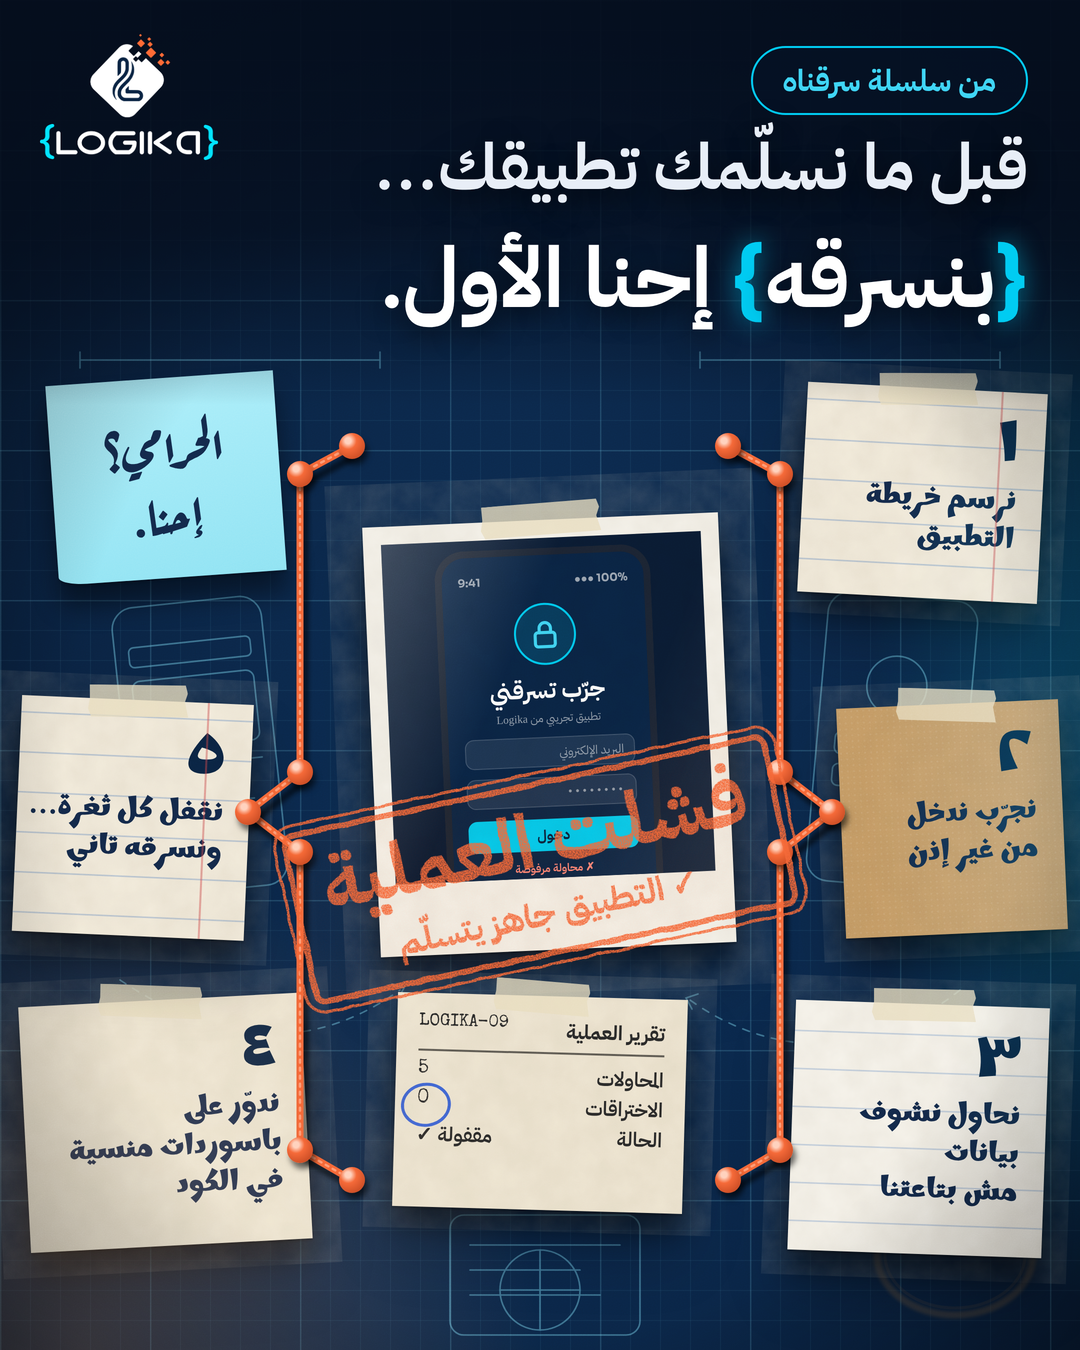
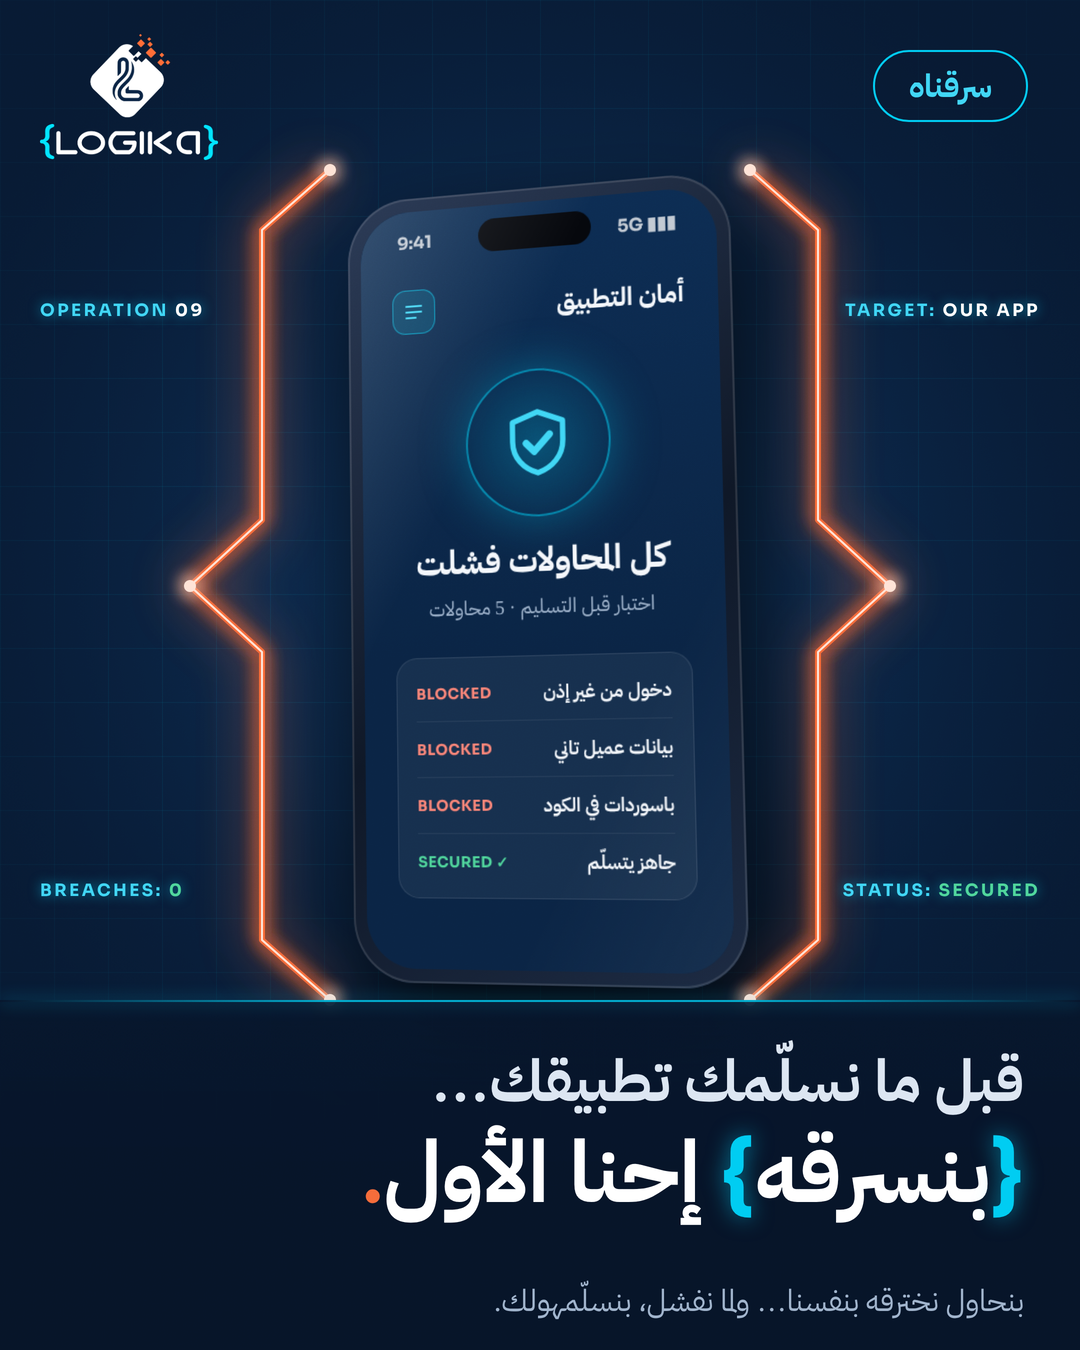
Post 9 v2: laser-brace hero layout following the Logika post system
Claude-Session: https://claude.ai/code/session_01LsSSdfez5pakafpfCzGJhu

diff --git a/content/post-09/heist-v2.html b/content/post-09/heist-v2.html
@@ -1,0 +1,134 @@
+<!doctype html>
+<html lang="ar">
+<head>
+<meta charset="utf-8">
+<title>بوست ٩ · بنسرقه إحنا الأول</title>
+<style>
+@font-face{font-family:Plex;src:url(fonts/ibm-plex-sans-arabic-arabic-400-normal.woff2);font-weight:400}
+@font-face{font-family:Plex;src:url(fonts/ibm-plex-sans-arabic-arabic-600-normal.woff2);font-weight:600}
+@font-face{font-family:Plex;src:url(fonts/ibm-plex-sans-arabic-arabic-700-normal.woff2);font-weight:700}
+@font-face{font-family:Sora;src:url(fonts/sora-latin-700-normal.woff2);font-weight:700}
+:root{--navy:#0A2444;--navy2:#0B335F;--deep:#071A33;--cyan:#00CCF2;--cyan2:#3FD6F5;--orange:#F56A39;--text:#F4F7FB;--muted:#9FB3CC}
+*{margin:0;padding:0;box-sizing:border-box}
+html,body{width:1080px;height:1350px;overflow:hidden;background:var(--deep)}
+body{position:relative;font-family:Plex,sans-serif;color:var(--text)}
+.abs{position:absolute}.full{position:absolute;inset:0}
+
+#bg{background:
+  linear-gradient(rgba(0,204,242,.07) 1px,transparent 1px) 0 0/54px 54px,
+  linear-gradient(90deg,rgba(0,204,242,.07) 1px,transparent 1px) 0 0/54px 54px,
+  radial-gradient(ellipse 60% 50% at 50% 42%,#0F3866 0%,#0A2444 55%,#071A33 100%)}
+#bgmask{background:radial-gradient(ellipse 70% 60% at 50% 42%,transparent 40%,rgba(7,26,51,.85) 100%)}
+
+/* ---------- phone ---------- */
+#phoneWrap{left:340px;top:180px;width:400px;height:800px;transform:perspective(1800px) rotateY(-14deg) rotateX(4deg) rotateZ(-2deg);transform-style:preserve-3d}
+#phone{position:absolute;inset:0;border-radius:64px;background:linear-gradient(145deg,#2B3A55,#0E1726 55%,#1C2A42);padding:14px;
+  box-shadow:0 60px 120px rgba(0,0,0,.6),0 0 0 2px rgba(255,255,255,.12) inset,30px 40px 80px rgba(0,0,0,.35)}
+#screen{position:relative;width:100%;height:100%;border-radius:52px;overflow:hidden;background:linear-gradient(180deg,#0C2C52,#0A2444 60%);direction:rtl;padding:62px 34px 0}
+#notch{position:absolute;left:50%;top:14px;width:118px;height:34px;margin-left:-59px;border-radius:20px;background:#05070C}
+.sb{position:absolute;top:22px;left:40px;right:40px;display:flex;justify-content:space-between;font:700 18px Sora;color:rgba(255,255,255,.75);direction:ltr}
+.app-top{display:flex;align-items:center;justify-content:space-between;margin-top:20px}
+.app-top b{font:700 26px Plex}
+.app-top i{width:46px;height:46px;border-radius:14px;background:rgba(0,204,242,.14);border:1.5px solid rgba(0,204,242,.6);display:flex;align-items:center;justify-content:center;color:var(--cyan2);font-style:normal}
+.shield{margin:44px auto 18px;width:150px;height:150px;border-radius:50%;display:flex;align-items:center;justify-content:center;
+  background:radial-gradient(circle,rgba(0,204,242,.25),rgba(0,204,242,.05) 70%);border:2px solid rgba(0,204,242,.55);box-shadow:0 0 50px rgba(0,204,242,.35);color:var(--cyan2)}
+.st{text-align:center;font:700 34px Plex}
+.ss{text-align:center;font:400 20px Plex;color:var(--muted);margin-top:6px}
+.log{margin-top:34px;border-radius:22px;background:rgba(255,255,255,.05);border:1px solid rgba(255,255,255,.1);padding:8px 20px}
+.row{display:flex;align-items:center;justify-content:space-between;padding:13px 0;border-bottom:1px solid rgba(255,255,255,.07);font:600 19px Plex}
+.row:last-child{border-bottom:none}
+.row span:last-child{font:700 15px Sora;color:#FF8577;direction:ltr;letter-spacing:.5px}
+.row.ok span:last-child{color:#4ED69A}
+#glare{position:absolute;inset:0;border-radius:52px;background:linear-gradient(118deg,rgba(255,255,255,.16) 0%,rgba(255,255,255,0) 32%,rgba(255,255,255,0) 72%,rgba(255,255,255,.05) 100%);pointer-events:none}
+
+/* ---------- HUD ---------- */
+.hud{font:700 17px Sora;letter-spacing:2.5px;color:var(--cyan2);direction:ltr;text-shadow:0 0 12px rgba(0,204,242,.6)}
+.hud em{font-style:normal;color:#fff}
+.corner{position:absolute;width:46px;height:46px;border-color:var(--cyan);border-style:solid;opacity:.85;filter:drop-shadow(0 0 6px rgba(0,204,242,.8))}
+
+/* ---------- bottom band (same system as posts 1–3) ---------- */
+#band{left:0;right:0;top:1000px;bottom:0;background:linear-gradient(180deg,rgba(7,22,44,.94),#061428 60%)}
+#bandLine{left:0;right:0;top:1000px;height:2px;background:linear-gradient(90deg,transparent,rgba(0,204,242,.8) 30%,rgba(0,204,242,.8) 70%,transparent);box-shadow:0 0 16px rgba(0,204,242,.7)}
+#headline{right:56px;left:56px;top:1046px;text-align:right;direction:rtl}
+#headline .l1{font:700 58px Plex;color:#DCE6F2;line-height:1.25}
+#headline .l2{font:700 86px Plex;line-height:1.2;color:#fff}
+#headline .br{font:700 86px Sora;color:var(--cyan);text-shadow:0 0 22px rgba(0,204,242,.55)}
+#headline .dot{color:var(--orange)}
+#sub{right:56px;top:1278px;font:400 30px Plex;color:var(--muted);direction:rtl}
+
+#logo{left:40px;top:34px;width:178px}
+#tag{right:52px;top:50px;padding:10px 34px;border:2.5px solid var(--cyan);border-radius:999px;font:700 32px Plex;color:var(--cyan2);direction:rtl;background:rgba(7,26,51,.4)}
+#grain{filter:url(#noise);opacity:.1;mix-blend-mode:overlay}
+</style>
+</head>
+<body>
+<svg width="0" height="0" style="position:absolute">
+  <filter id="noise"><feTurbulence type="fractalNoise" baseFrequency=".9" numOctaves="3" stitchTiles="stitch"/><feColorMatrix type="saturate" values="0"/></filter>
+  <filter id="glow" x="-20%" y="-20%" width="140%" height="140%"><feGaussianBlur stdDeviation="9" result="b"/><feMerge><feMergeNode in="b"/><feMergeNode in="b"/><feMergeNode in="SourceGraphic"/></feMerge></filter>
+  <filter id="soft" x="-30%" y="-30%" width="160%" height="160%"><feGaussianBlur stdDeviation="26"/></filter>
+</svg>
+
+<div id="bg" class="full"></div>
+<div id="bgmask" class="full"></div>
+
+<!-- laser haze behind the phone -->
+<svg class="full" width="1080" height="1350">
+  <g filter="url(#soft)" opacity=".55" fill="none" stroke="#F56A39" stroke-width="18">
+    <path d="M330 170 L262 230 L262 520 L190 586 L262 652 L262 940 L330 1000"/>
+    <path d="M750 170 L818 230 L818 520 L890 586 L818 652 L818 940 L750 1000"/>
+  </g>
+</svg>
+
+<!-- phone -->
+<div id="phoneWrap" class="abs">
+  <div id="phone"><div id="screen">
+    <div id="notch"></div><div class="sb"><span>9:41</span><span>5G ▮▮▮</span></div>
+    <div class="app-top"><b>أمان التطبيق</b><i><svg width="24" height="24" viewBox="0 0 24 24" fill="none" stroke="currentColor" stroke-width="2.2" stroke-linecap="round"><path d="M4 6h16M4 12h16M4 18h10"/></svg></i></div>
+    <div class="shield"><svg width="78" height="78" viewBox="0 0 24 24" fill="none" stroke="currentColor" stroke-width="1.7" stroke-linejoin="round"><path d="M12 2.5 20 5.5v6c0 5-3.4 8.6-8 10-4.6-1.4-8-5-8-10v-6z"/><path d="M8.3 12.2l2.6 2.6 4.9-5.2" stroke-width="2.2" stroke-linecap="round"/></svg></div>
+    <div class="st">كل المحاولات فشلت</div>
+    <div class="ss">اختبار قبل التسليم · 5 محاولات</div>
+    <div class="log">
+      <div class="row"><span>دخول من غير إذن</span><span>BLOCKED</span></div>
+      <div class="row"><span>بيانات عميل تاني</span><span>BLOCKED</span></div>
+      <div class="row"><span>باسوردات في الكود</span><span>BLOCKED</span></div>
+      <div class="row ok"><span>جاهز يتسلّم</span><span>SECURED ✓</span></div>
+    </div>
+    <div id="glare"></div>
+  </div></div>
+</div>
+
+<!-- laser braces { } around the phone -->
+<svg class="full" width="1080" height="1350" style="pointer-events:none">
+  <g fill="none" stroke-linecap="round" stroke-linejoin="round" filter="url(#glow)">
+    <path d="M330 170 L262 230 L262 520 L190 586 L262 652 L262 940 L330 1000" stroke="#F56A39" stroke-width="6"/>
+    <path d="M750 170 L818 230 L818 520 L890 586 L818 652 L818 940 L750 1000" stroke="#F56A39" stroke-width="6"/>
+  </g>
+  <g fill="none" stroke-linecap="round" stroke-linejoin="round" stroke="#FFE3D6" stroke-width="2">
+    <path d="M330 170 L262 230 L262 520 L190 586 L262 652 L262 940 L330 1000"/>
+    <path d="M750 170 L818 230 L818 520 L890 586 L818 652 L818 940 L750 1000"/>
+  </g>
+  <!-- emitter points -->
+  <g fill="#FFE3D6" filter="url(#glow)"><circle cx="330" cy="170" r="6"/><circle cx="190" cy="586" r="6"/><circle cx="330" cy="1000" r="6"/><circle cx="750" cy="170" r="6"/><circle cx="890" cy="586" r="6"/><circle cx="750" cy="1000" r="6"/></g>
+</svg>
+
+<!-- HUD -->
+<div class="hud abs" style="left:40px;top:300px">OPERATION <em>09</em></div>
+<div class="hud abs" style="right:40px;top:300px">TARGET: <em>OUR APP</em></div>
+<div class="hud abs" style="left:40px;top:880px">BREACHES: <em style="color:#4ED69A">0</em></div>
+<div class="hud abs" style="right:40px;top:880px">STATUS: <em style="color:#4ED69A">SECURED</em></div>
+
+<!-- bottom band -->
+<div id="band" class="abs"></div>
+<div id="bandLine" class="abs"></div>
+<div id="headline" class="abs">
+  <div class="l1">قبل ما نسلّمك تطبيقك…</div>
+  <div class="l2"><span class="br">{</span>بنسرقه<span class="br">}</span> إحنا الأول<span class="dot">.</span></div>
+</div>
+<div id="sub" class="abs">بنحاول نخترقه بنفسنا… ولما نفشل، بنسلّمهولك.</div>
+
+<img id="logo" class="abs" src="brand/logo-on-dark.png">
+<div id="tag" class="abs">سرقناه</div>
+<div id="grain" class="full"></div>
+<script>document.fonts.ready.then(()=>{window.__ready=true;});</script>
+</body>
+</html>

diff --git a/content/post-09/caption.md b/content/post-09/caption.md
@@ -21,5 +21,6 @@ Logika. متأمّن من جوّا.
 `#Logika #سرقناه #أمن_المعلومات #تطبيقات #ستارت_اب`
 
 - **الصورة:** `post-09.png` (1080×1350)، ونسخة بدقة مضاعفة `post-09@2x.png`.
-- **المصدر:** `heist.html`، وأي تعديل في الكلام بيتعمل فيه وبعدين: `node shoot.mjs heist.html out.png`
+- **المصدر:** `heist-v2.html` (النسخة المعتمدة)، وأي تعديل بيتعمل فيه وبعدين: `node shoot.mjs heist-v2.html out.png`
+- **النسخة الأولى (الكولاج):** `heist.html` و `post-09-v1-collage.png` للرجوع ليها بس
 - **قبل النشر:** اتأكد إن التطبيق التجريبي اتجرّب فعلًا بالخطوات الخمسة، لأن البوست بيقول «الاختراقات: 0».
